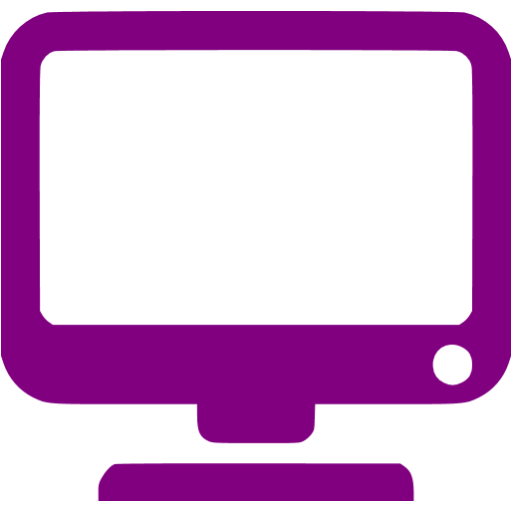
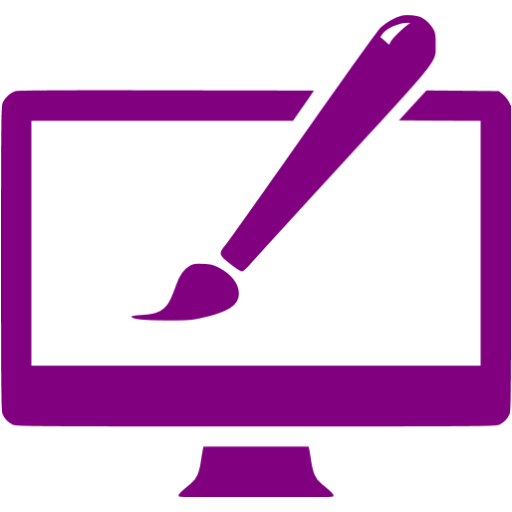
Fixed image bug due to adblocker

diff --git a/index.html b/index.html
@@ -103,7 +103,7 @@
               </h3>
               </div>
               <div class="col-sm-4 col-md-4 col-lg-4">
-                <img src="images/Homepage/advertise.png" width="30%">
+                <img src="images/Homepage/user.png" width="30%">
                 <h3>
                 To Advertise/Show Who I am
               </h3>
